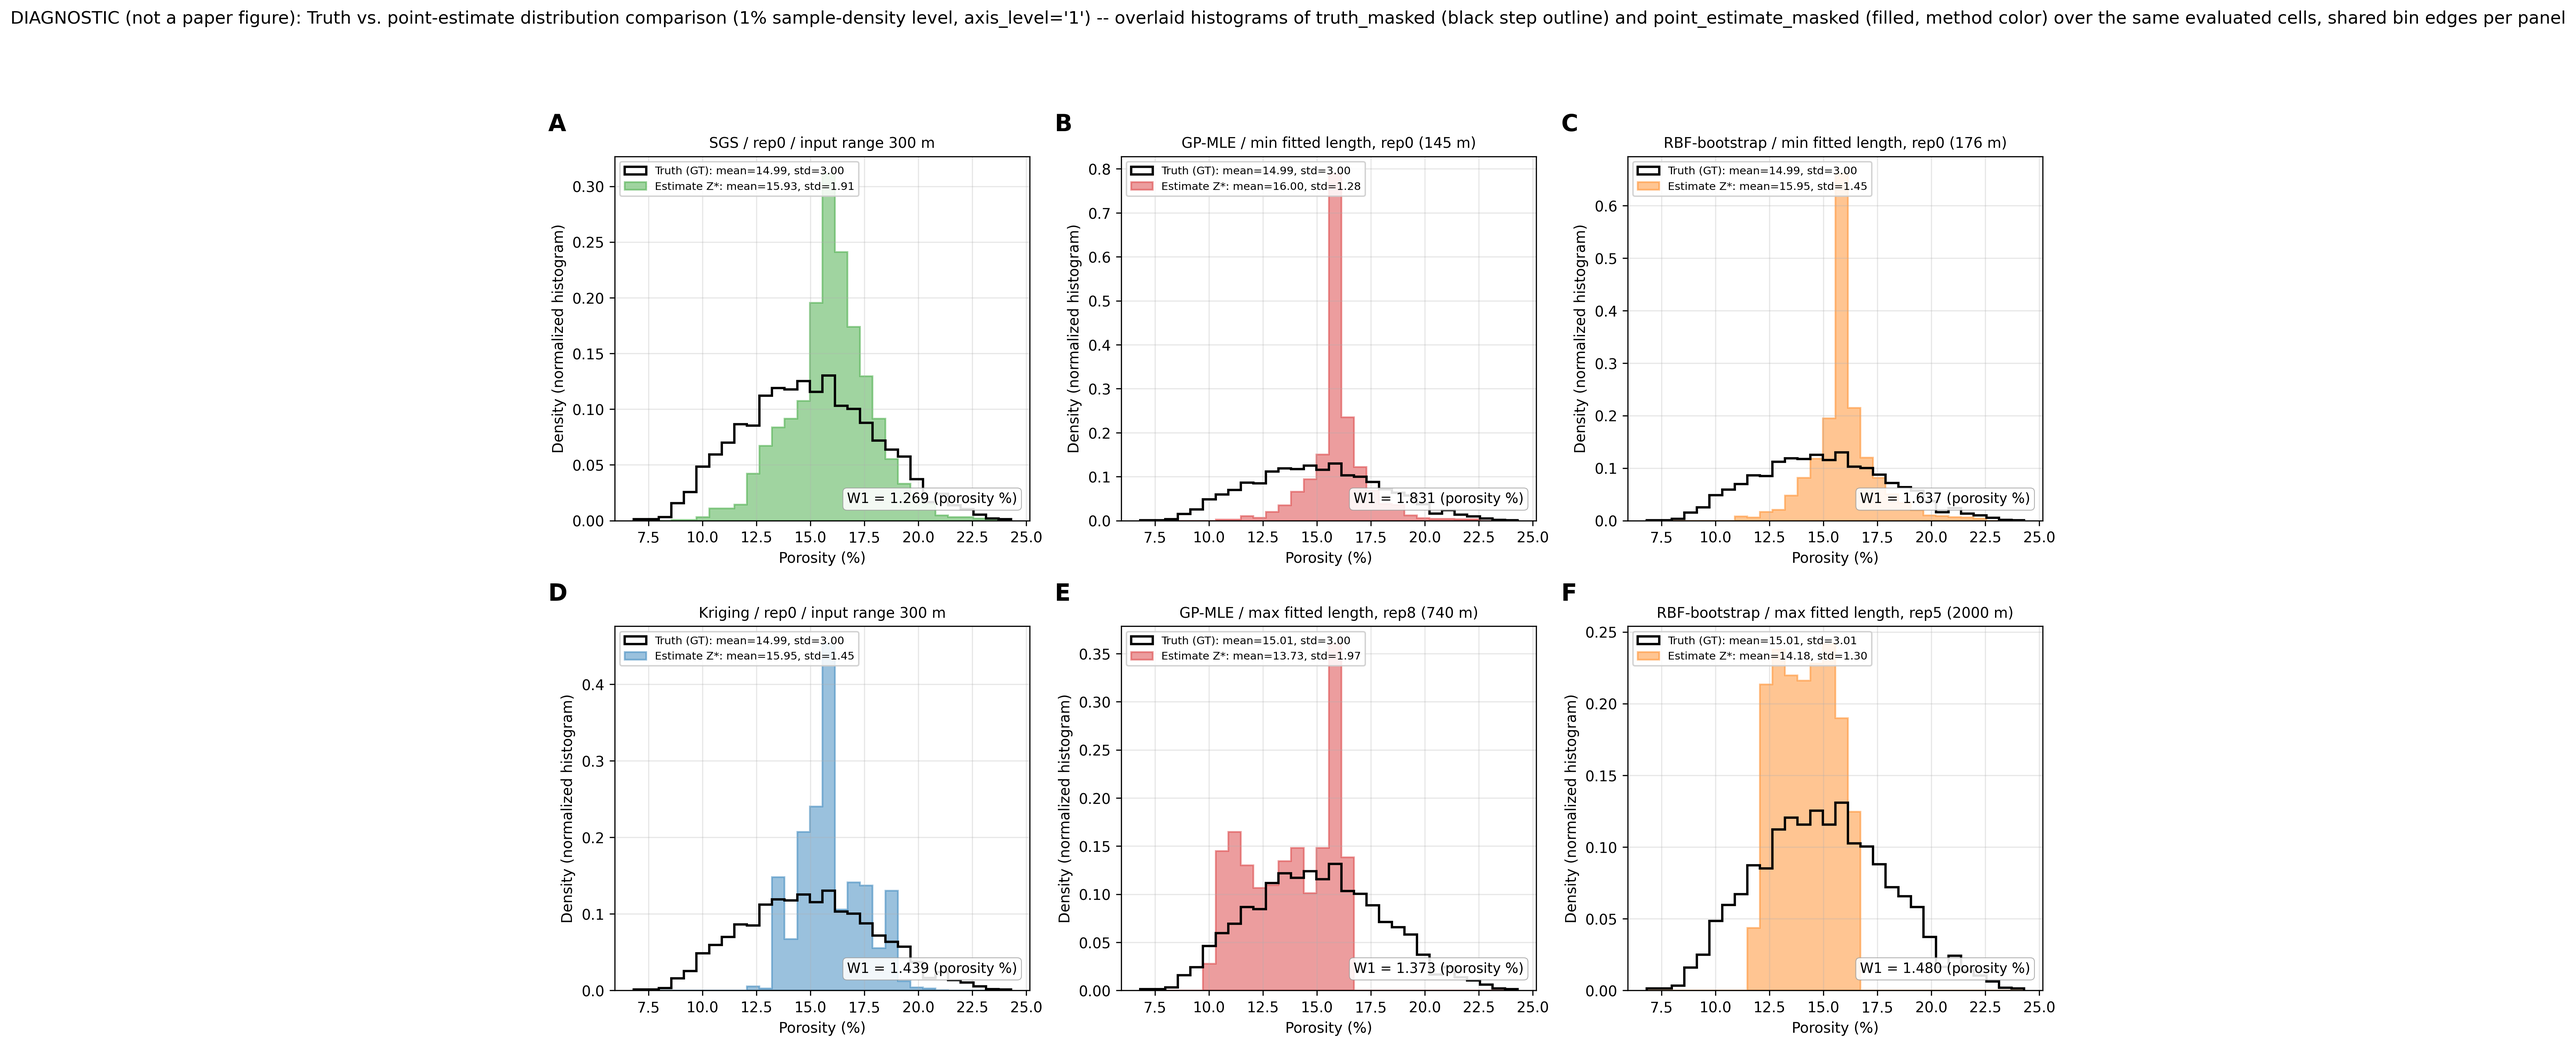
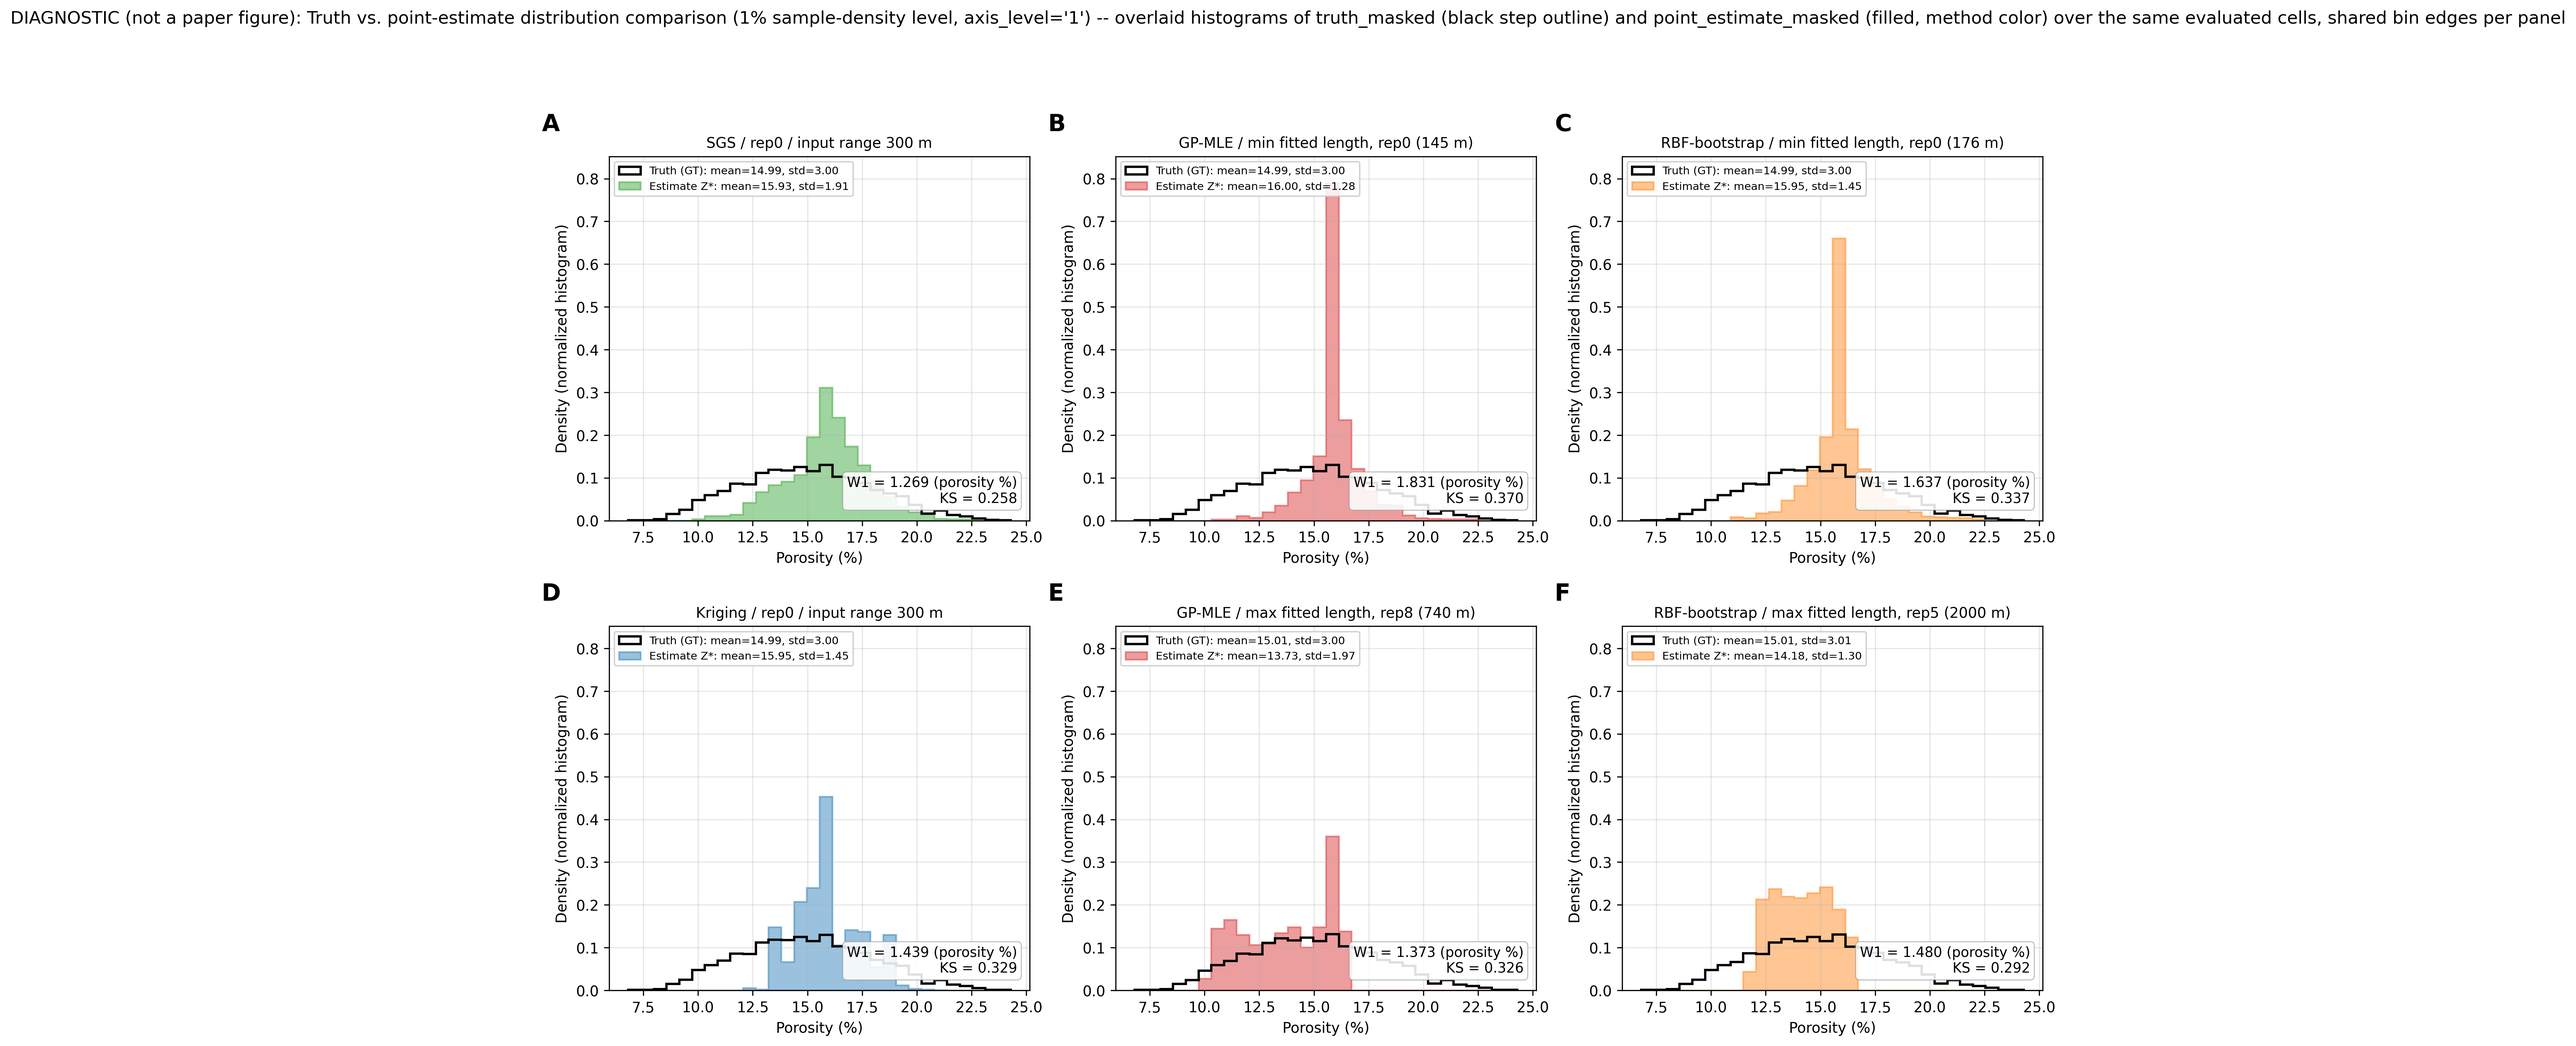
Add KS statistic and shared y-axis scale to the distribution board
Adds scipy.stats.ks_2samp(truth, estimate) per panel (shown alongside the
existing Wasserstein distance in each panel's text box; statistic and
p-value also written to the CSV), and unifies all 6 panels' y-axis upper
limit (max density across all panels * 8% padding, computed dynamically,
no hardcoding) so panel shapes are now visually comparable. Existing
mean/std/W1 numbers are unchanged (reviewer-verified via independent
re-run and git diff).

diff --git a/results/processed/sample_replicate_axis/make_truth_vs_estimate_distribution_board.py b/results/processed/sample_replicate_axis/make_truth_vs_estimate_distribution_board.py
@@ -63,7 +63,7 @@ from pathlib import Path
 import matplotlib
 import numpy as np
 import pandas as pd
-from scipy.stats import wasserstein_distance
+from scipy.stats import ks_2samp, wasserstein_distance
 
 matplotlib.use("Agg")
 import matplotlib.pyplot as plt
@@ -88,7 +88,7 @@ OUTPUT_FIG = FIGURES_DIR / "truth_vs_estimate_distribution_board.png"
 OUTPUT_COLUMNS = [
     "panel", "method", "role", "replicate_id", "length_or_range_m",
     "truth_mean", "truth_std", "estimate_mean", "estimate_std", "n_cells",
-    "wasserstein_distance",
+    "wasserstein_distance", "ks_statistic", "ks_pvalue",
 ]
 
 PANEL_LABELS = ("A", "B", "C", "D", "E", "F")
@@ -109,6 +109,7 @@ def build_panel(method: str, role: str, row_data: dict) -> dict:
     truth_masked = np.asarray(row_data["truth_masked"], dtype=float)
     estimate_masked = np.asarray(row_data["point_estimate_masked"], dtype=float)
     n_cells = int(truth_masked.size)
+    ks_result = ks_2samp(truth_masked, estimate_masked)
     return {
         "method": method,
         "role": role,
@@ -121,19 +122,38 @@ def build_panel(method: str, role: str, row_data: dict) -> dict:
         "estimate_std": float(np.std(estimate_masked)),
         "n_cells": n_cells,
         "wasserstein_distance": float(wasserstein_distance(truth_masked, estimate_masked)),
+        "ks_statistic": float(ks_result.statistic),
+        "ks_pvalue": float(ks_result.pvalue),
     }
 
 
-def plot_panel(ax, panel: dict, color: str, title: str, letter: str) -> None:
+def compute_bin_edges(panel: dict) -> np.ndarray:
+    """Shared bin edges for one panel's overlaid histograms, built from the
+    pooled [truth, estimate] range (same recipe used inside plot_panel)."""
+    pooled = np.concatenate([panel["truth_masked"], panel["estimate_masked"]])
+    return np.histogram_bin_edges(pooled, bins=N_HIST_BINS)
+
+
+def compute_panel_max_density(panel: dict) -> float:
+    """Max density value across both (truth, estimate) histograms of one
+    panel, using the exact same bin edges plot_panel will draw with -- used
+    to find the single y-axis upper limit shared by all 6 panels."""
+    bin_edges = compute_bin_edges(panel)
+    truth_density, _ = np.histogram(panel["truth_masked"], bins=bin_edges, density=True)
+    estimate_density, _ = np.histogram(panel["estimate_masked"], bins=bin_edges, density=True)
+    return float(max(truth_density.max(), estimate_density.max()))
+
+
+def plot_panel(ax, panel: dict, color: str, title: str, letter: str, shared_ylim: float) -> None:
     """Draw one of the 6 panels: overlaid Truth-vs-Estimate histograms on
-    shared bin edges, density-normalized y-axis, legend with mean/std, and
-    the same panel-letter convention as make_conditional_expectation_scatter_
-    board.py."""
+    shared bin edges, density-normalized y-axis (upper limit shared by ALL
+    6 panels, via shared_ylim, so panel shapes are directly comparable),
+    legend with mean/std, and the same panel-letter convention as
+    make_conditional_expectation_scatter_board.py."""
     truth = panel["truth_masked"]
     estimate = panel["estimate_masked"]
 
-    pooled = np.concatenate([truth, estimate])
-    bin_edges = np.histogram_bin_edges(pooled, bins=N_HIST_BINS)
+    bin_edges = compute_bin_edges(panel)
 
     ax.hist(
         truth, bins=bin_edges, density=True, histtype="step", color="black",
@@ -151,9 +171,12 @@ def plot_panel(ax, panel: dict, color: str, title: str, letter: str) -> None:
     ax.set_title(title, fontsize=10)
     ax.grid(alpha=0.3)
     ax.legend(loc="upper left", fontsize=7.5, framealpha=0.85)
+    ax.set_ylim(0, shared_ylim)
 
     ax.text(
-        0.97, 0.04, f"W1 = {panel['wasserstein_distance']:.3f} (porosity %)",
+        0.97, 0.04,
+        f"W1 = {panel['wasserstein_distance']:.3f} (porosity %)\n"
+        f"KS = {panel['ks_statistic']:.3f}",
         transform=ax.transAxes, ha="right", va="bottom", fontsize=9.5,
         bbox=dict(boxstyle="round", facecolor="white", edgecolor="0.6", alpha=0.88, linewidth=0.5),
     )
@@ -240,9 +263,16 @@ def main():
         "C": float(rbf_min_row["length_scale_m"]), "F": float(rbf_max_row["length_scale_m"]),
     }
 
+    # Shared y-axis upper limit across ALL 6 panels (dynamic, not hardcoded):
+    # the max density over every panel's truth/estimate histograms, padded by
+    # 8% so the tallest bar is never clipped.
+    max_density = max(compute_panel_max_density(panels[letter]) for letter in PANEL_LABELS)
+    shared_ylim = max_density * 1.08
+    print(f"\nShared y-axis upper limit (max density * 1.08 padding): {shared_ylim:.4f}")
+
     fig, axes = plt.subplots(2, 3, figsize=(15.0, 10.2))
     for ax, letter in zip(axes.ravel(), PANEL_LABELS):
-        plot_panel(ax, panels[letter], colors[letter], titles[letter], letter)
+        plot_panel(ax, panels[letter], colors[letter], titles[letter], letter, shared_ylim)
 
     fig.suptitle(
         "DIAGNOSTIC (not a paper figure): Truth vs. point-estimate distribution comparison "
@@ -266,7 +296,8 @@ def main():
             f"  panel {letter} [{p['method']:<13s} {p['role']:<12s} {p['replicate_id']}] "
             f"truth: mean={p['truth_mean']:.3f} std={p['truth_std']:.3f}  |  "
             f"estimate: mean={p['estimate_mean']:.3f} std={p['estimate_std']:.3f}  |  "
-            f"n_cells={p['n_cells']}  |  wasserstein_distance={p['wasserstein_distance']:.4f}"
+            f"n_cells={p['n_cells']}  |  wasserstein_distance={p['wasserstein_distance']:.4f}  |  "
+            f"ks_statistic={p['ks_statistic']:.4f}  ks_pvalue={p['ks_pvalue']:.4g}"
         )
         rows.append({
             "panel": letter,
@@ -280,6 +311,8 @@ def main():
             "estimate_std": p["estimate_std"],
             "n_cells": p["n_cells"],
             "wasserstein_distance": p["wasserstein_distance"],
+            "ks_statistic": p["ks_statistic"],
+            "ks_pvalue": p["ks_pvalue"],
         })
 
     out_df = pd.DataFrame(rows, columns=OUTPUT_COLUMNS)
